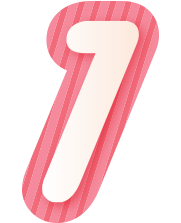
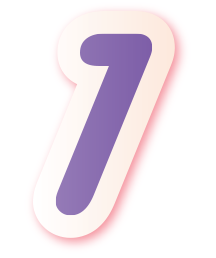
update design & modify score logic

diff --git a/demo/arkanoid_redesigned/js/entity.js b/demo/arkanoid_redesigned/js/entity.js
@@ -111,8 +111,7 @@ define("ocb/entity",['pwge/spriteManager','pwge/boardManager','pwge/input','pwge
                     break;
                 }
             }
-            //this.entity.destroy();
-            this.vx = this.vy = 0;
+            this.entity.destroy();
 
             if (balls.length<=0) {
                 this.game.trigger("end");
@@ -137,7 +136,8 @@ define("ocb/entity",['pwge/spriteManager','pwge/boardManager','pwge/input','pwge
             }
         }
         if (block.hp<=0) {
-            score += block.score;
+            // it means that the number of live balls are IMPORTANT !
+            score += block.score * balls.length;
             entity.trigger("score");
 
             block.destroy();
@@ -273,9 +273,7 @@ define("ocb/entity",['pwge/spriteManager','pwge/boardManager','pwge/input','pwge
 
         // if out of window, destroy
         if (this.entity.y > 900+100) {
-            // don't need to destroy, this will be destroyed when stage is cleared.
-            this.vy = 0;
-/*
+
             this.entity.destroy();
             for(i in items) {
                 if (items[i]===this) {
@@ -283,7 +281,6 @@ define("ocb/entity",['pwge/spriteManager','pwge/boardManager','pwge/input','pwge
                     break;
                 }
             }
-*/
         }
 
         this.prev_dt = dt;

diff --git a/demo/arkanoid_redesigned/js/resource.js b/demo/arkanoid_redesigned/js/resource.js
@@ -31,24 +31,24 @@ define("ocb/resource", [], function(){
                 image:"count1",
                 x:0,
                 y:0,
-                width:181,
-                height:223,
+                width:216,
+                height:258,
                 frames:1
             },
             "count2" : {
                 image:"count2",
                 x:0,
                 y:0,
-                width:181,
-                height:223,
+                width:216,
+                height:258,
                 frames:1
             },
             "count3" : {
                 image:"count3",
                 x:0,
                 y:0,
-                width:181,
-                height:223,
+                width:216,
+                height:258,
                 frames:1
             },
             "block1" : {
